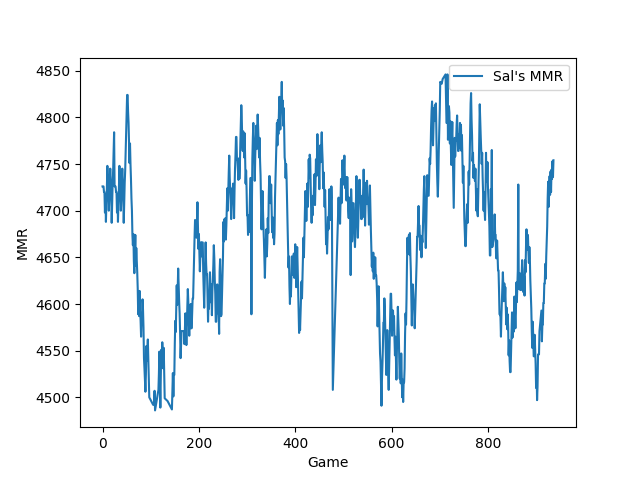
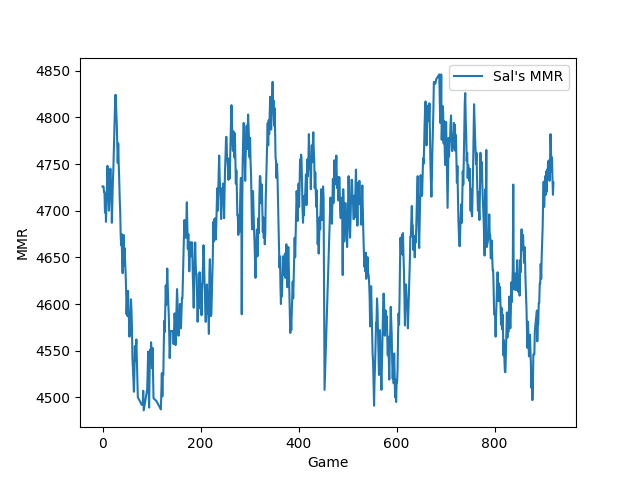
running on push

diff --git a/docs/index.md b/docs/index.md
@@ -6,9 +6,9 @@ layout: home
 
 |                      |   Stats |
 |:---------------------|--------:|
-| Matches Played       |     937 |
-| MMR Gained           |   25173 |
-| MMR lost             |   25145 |
+| Matches Played       |     921 |
+| MMR Gained           |   25030 |
+| MMR lost             |   25026 |
 | Max MMR              |    4846 |
 | Min MMR              |    4486 |
 | Longest Win Streak   |       9 |
@@ -27,17 +27,17 @@ layout: home
 | theglml     |    153 |
 | Archaleon   |    149 |
 | GhostDragon |    122 |
-| fat0n       |    108 |
 | Kyoshi      |    101 |
+| igor        |     99 |
 | BaumesBaum  |     99 |
 
 ## Games by Race
 
 | Race    |   Wins |   Losses |   Total |   Win Rate (%) |   MMR Gained |   MMR Lost |
 |:--------|-------:|---------:|--------:|---------------:|-------------:|-----------:|
-| Protoss |    173 |      210 |     383 |        45.1697 |         3174 |       3478 |
-| Terran  |     86 |      124 |     210 |        40.9524 |         2149 |       1653 |
-| Zerg    |    195 |      148 |     343 |        56.8513 |         3161 |       3100 |
+| Protoss |    167 |      208 |     375 |        44.5333 |         3078 |       3445 |
+| Terran  |     86 |      122 |     208 |        41.3462 |         2168 |       1598 |
+| Zerg    |    192 |      145 |     337 |        56.9733 |         3095 |       3069 |
 
 ![Games by Race](./assets/gm_hist.png)
 
